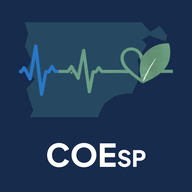
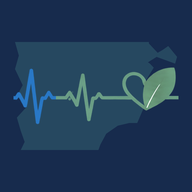
Ícono COESP sin texto (el nombre ya figura debajo del ícono)
Claude-Session: https://claude.ai/code/session_012SCdV4pzLXwyVzr4fCAun3

diff --git a/emergencias/sw.js b/emergencias/sw.js
@@ -1,6 +1,6 @@
 /* Emergencias HySL (migrada desde /starh) · trabajo sin señal: guarda la app en el dispositivo.
  * Al publicar una versión nueva, cambiar el número de VERSION para que todos la reciban. */
-const VERSION = 'emergencias-v1.25';
+const VERSION = 'emergencias-v1.26';
 const ARCHIVOS = ['./', 'index.html', 'starh.html', 'coe.html', 'control.html', 'fuentes.html', 'ficha.html', 'establecimientos.html', 'notas.html', 'red.html', 'evac.html', 'derivaciones.html', 'plan.html', 'tablero.html', 'phr.html', 'phr-tablero.html', 'imprimir.html', 'ish.html', 'ish-tablero.html', 'guias.js', 'starh.js', 'config.js',
   'logo-hysl.png', 'banda-sst.jpg', 'enc-trelew.png', 'enc-secretaria.png', 'enc-hsst.png', 'icon-192.png', 'icon-512.png', 'icon-maskable-192.png', 'icon-maskable-512.png', 'apple-touch-icon.png', 'manifest.webmanifest'];
 
